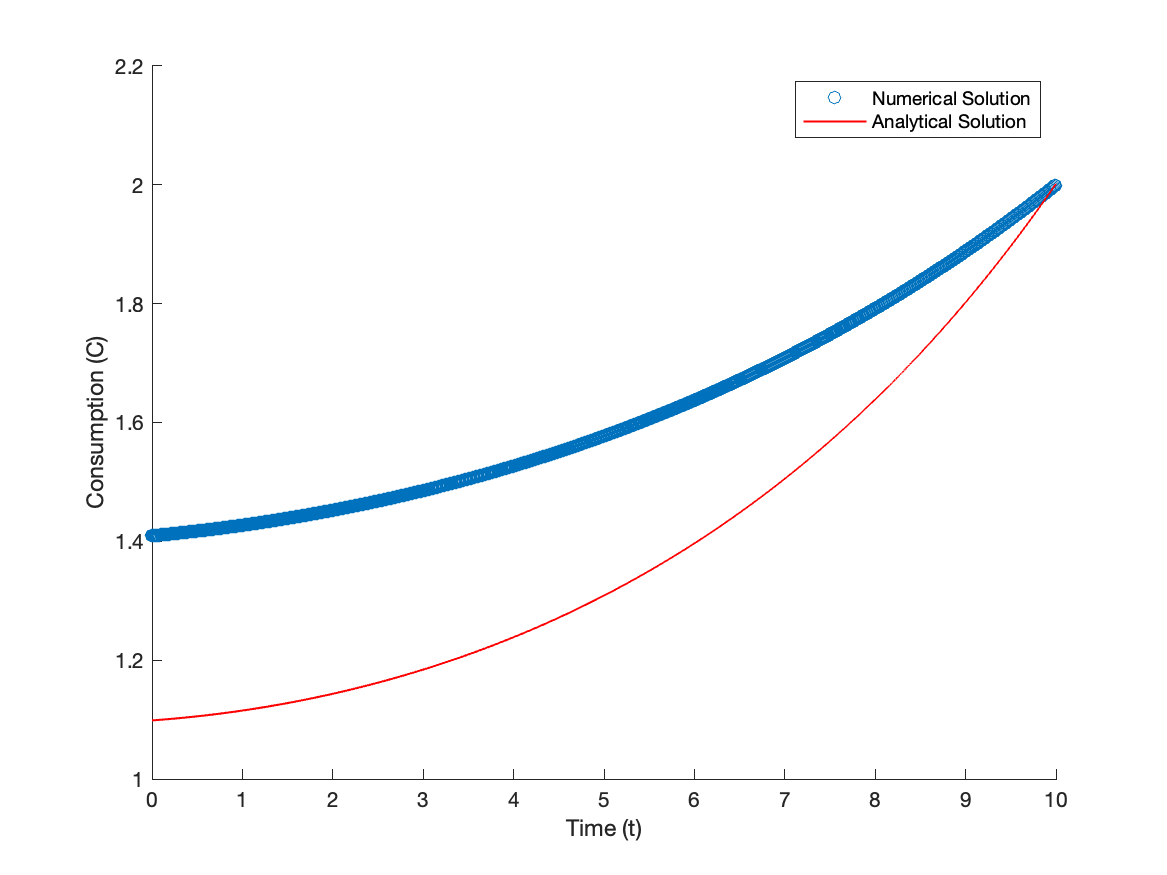
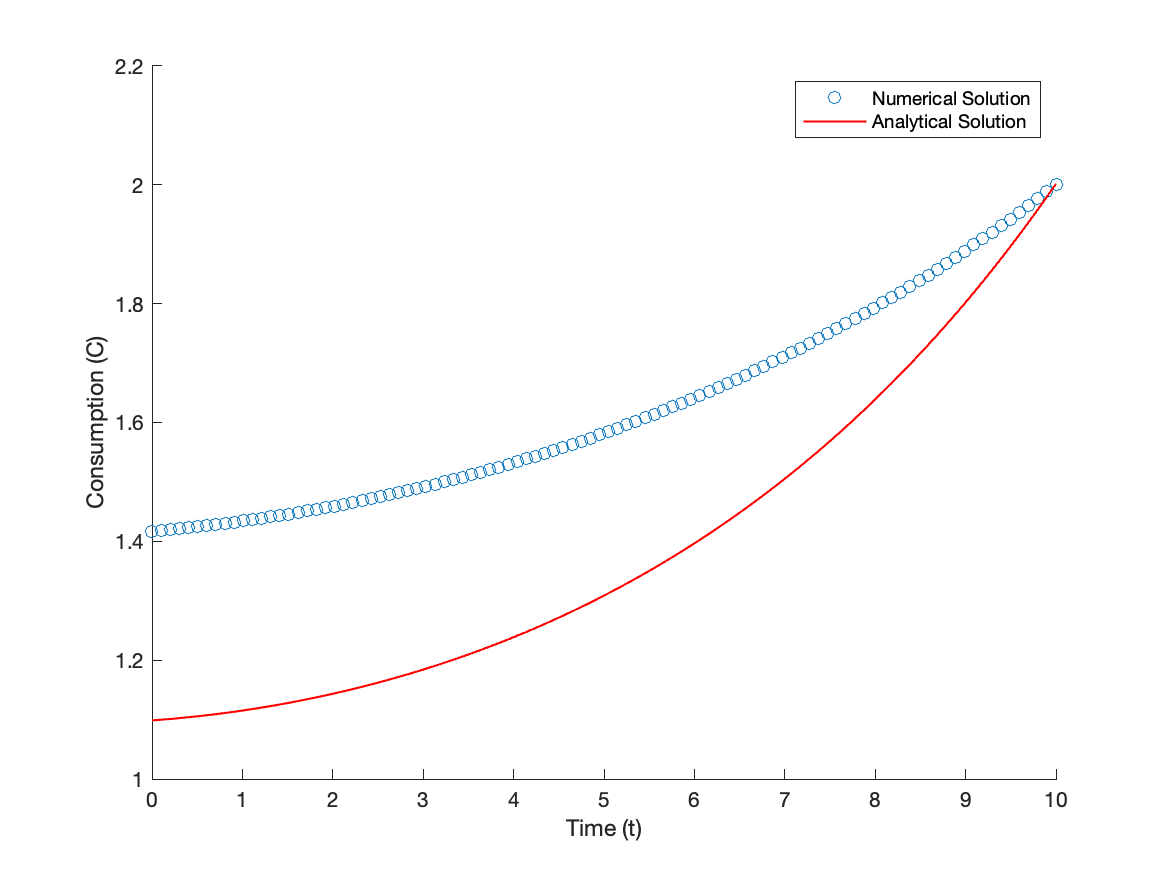
Added code to solve PS1 changed grid points to 100 from 1000

Changed region(s): [[0.1234, 0.4937, 0.5244, 0.6171], [0.5244, 0.3086, 0.8021, 0.4937], [0.8021, 0.1851, 0.9254, 0.3086]]

diff --git a/ProblemSetSolutions/PS1.m b/ProblemSetSolutions/PS1.m
@@ -38,7 +38,7 @@ saveas(gcf, '/Users/muhammadbashir/GitHub/DynamicProgramming2024/ProblemSetSolut
 
 % Q.2 Solving numerically using Finite Difference Method
 % create 1000 grid points between 0 and 10
-pars.n = 10000;
+pars.n = 100;
 t = linspace(0, pars.T, pars.n);
 pars.step_size = pars.T/pars.n;
 % initialize consumption vector
